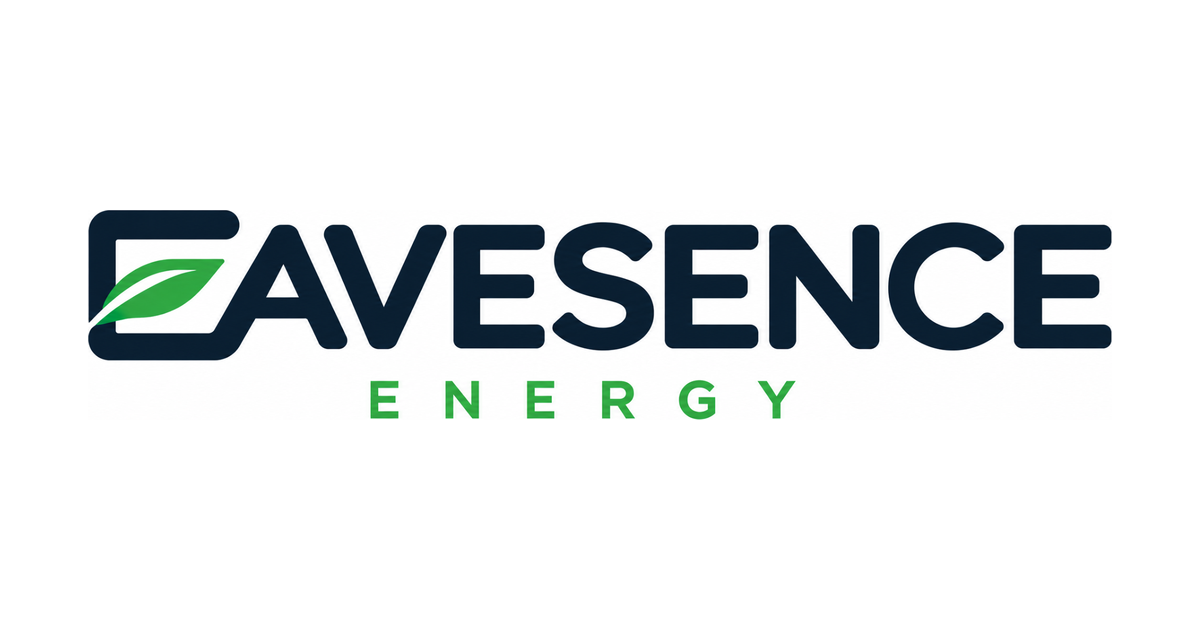
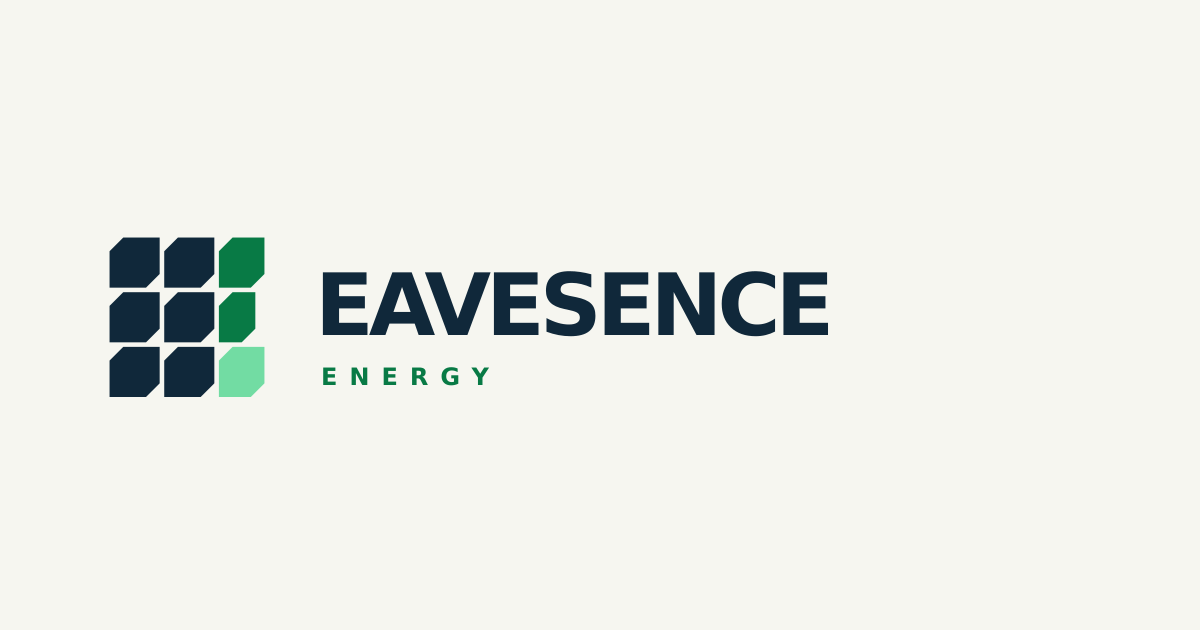
Adopt Cut Grid branding and refine UI details

diff --git a/src/components/EnergyCalculator.tsx b/src/components/EnergyCalculator.tsx
@@ -1054,7 +1054,7 @@ export default function EnergyCalculator({
 
       {/* Device */}
       <div className={homePresentation ? "mb-4" : "mb-6"}>
-        <p className="mb-3 text-sm font-semibold tracking-[-0.01em] text-[#edf3ef]">
+        <p className="mb-3 pl-3.5 text-sm font-semibold tracking-[-0.01em] text-[#edf3ef]">
           {text.device.label}
         </p>
         {detailPage ? (
@@ -1276,7 +1276,7 @@ export default function EnergyCalculator({
           isPowerDevice && (
             <>
               <div>
-                <label className="mb-2 block text-sm font-semibold text-slate-700">
+                <label className="mb-2 block pl-4 text-sm font-semibold text-slate-700">
                   {text.fields.power}
                 </label>
 
@@ -1314,7 +1314,7 @@ export default function EnergyCalculator({
               </div>
 
               <div>
-                <label className="mb-2 block text-sm font-semibold text-slate-700">
+                <label className="mb-2 block pl-4 text-sm font-semibold text-slate-700">
                   {
                     text.fields
                       .minutesPerUse
@@ -1357,7 +1357,7 @@ export default function EnergyCalculator({
         {mode === "estimate" &&
           isConsumptionDevice && (
             <div>
-              <label className="mb-2 block text-sm font-semibold text-slate-700">
+              <label className="mb-2 block pl-4 text-sm font-semibold text-slate-700">
                 {
                   text.fields
                     .consumptionPerUse
@@ -1401,7 +1401,7 @@ export default function EnergyCalculator({
 
         {mode === "exact" && (
           <div>
-            <label className="mb-2 block text-sm font-semibold text-slate-700">
+            <label className="mb-2 block pl-4 text-sm font-semibold text-slate-700">
               {
                 text.fields
                   .actualConsumptionPerUse
@@ -1446,7 +1446,7 @@ export default function EnergyCalculator({
         {/* Electricity price */}
         <div className="grid gap-3 sm:grid-cols-[minmax(12rem,1fr)_8rem]">
           <div>
-          <label className="mb-2 block text-sm font-semibold text-slate-700">
+          <label className="mb-2 block pl-4 text-sm font-semibold text-slate-700">
             {
               text.fields
                 .electricityPrice
@@ -1486,7 +1486,7 @@ export default function EnergyCalculator({
           </div>
 
           <div>
-            <label className="mb-2 block text-sm font-semibold text-slate-700">
+            <label className="mb-2 block pl-4 text-sm font-semibold text-slate-700">
               {text.fields.currency}
             </label>
 
@@ -1506,7 +1506,7 @@ export default function EnergyCalculator({
 
         {/* Uses */}
         <div>
-          <label className="mb-2 block text-sm font-semibold text-slate-700">
+          <label className="mb-2 block pl-4 text-sm font-semibold text-slate-700">
             {
               text.fields
                 .usesPerWeek
@@ -1566,7 +1566,7 @@ export default function EnergyCalculator({
           type="button"
           onClick={() => myDevicesPanelRef.current?.saveCurrentDevice()}
           disabled={!calculationIsValid}
-          className="calculator-save-action ml-auto inline-flex min-h-8 items-center justify-center gap-1 rounded-md border border-[var(--brand-green)] bg-[var(--brand-green)] px-2.5 py-1 text-[var(--brand-off-white)] shadow-[0_8px_20px_-16px_rgba(0,122,61,0.8)] transition hover:-translate-y-0.5 hover:bg-[var(--brand-green-dark)] focus-visible:outline-none focus-visible:ring-2 focus-visible:ring-[var(--brand-green-mint)] focus-visible:ring-offset-2 focus-visible:ring-offset-[#0d1819] disabled:cursor-not-allowed disabled:border-slate-600 disabled:bg-slate-700 disabled:text-slate-400 disabled:shadow-none disabled:hover:translate-y-0 active:translate-y-0"
+          className="calculator-save-action ml-auto inline-flex min-h-8 items-center justify-center gap-1 rounded-md border border-[var(--brand-green-mint)] bg-[var(--brand-green-mint)] px-2.5 py-1 text-[var(--brand-green)] shadow-[0_8px_20px_-16px_rgba(114,220,163,0.65)] transition hover:-translate-y-0.5 hover:border-[#62d797] hover:bg-[#62d797] focus-visible:outline-none focus-visible:ring-2 focus-visible:ring-[var(--brand-green-mint)] focus-visible:ring-offset-2 focus-visible:ring-offset-[#0d1819] disabled:cursor-not-allowed disabled:border-slate-600 disabled:bg-slate-700 disabled:text-slate-400 disabled:shadow-none disabled:hover:translate-y-0 active:translate-y-0"
         >
           {activeSavedDeviceId ? text.saveChanges : text.calculate}
           <span aria-hidden="true">+</span>

diff --git a/src/components/Header.tsx b/src/components/Header.tsx
@@ -325,7 +325,7 @@ export default function Header({
               onClick={handleLogoClick}
               onMouseEnter={openDesktopNavigation}
               onFocus={openDesktopNavigation}
-              className={`absolute top-1/2 z-20 flex -translate-y-1/2 items-center gap-2.5 transition-[left,transform] duration-[420ms] ease-[cubic-bezier(.2,.8,.2,1)] motion-reduce:transition-none ${
+              className={`absolute top-1/2 z-20 flex -translate-y-1/2 items-center gap-2.5 transition-[left,transform] duration-[520ms] ease-[cubic-bezier(.2,.8,.2,1)] motion-reduce:transition-none ${
                 desktopNavigationOpen
                   ? "left-0 translate-x-0"
                   : "left-1/2 -translate-x-1/2"
@@ -334,7 +334,7 @@ export default function Header({
             >
               <BrandMark className="h-8 w-8 shrink-0" />
               <span
-                className={`overflow-hidden whitespace-nowrap text-[1.25rem] font-extrabold leading-none tracking-[-0.065em] text-[#10283a] transition-[max-width,opacity,transform,filter] duration-[420ms] ease-[cubic-bezier(.2,.8,.2,1)] motion-reduce:transition-none ${
+                className={`overflow-hidden whitespace-nowrap text-[1.25rem] font-extrabold leading-none tracking-[-0.065em] text-[#10283a] transition-[max-width,opacity,transform,filter] duration-[520ms] ease-[cubic-bezier(.2,.8,.2,1)] motion-reduce:transition-none ${
                   desktopNavigationOpen
                     ? "max-w-0 -translate-x-3 scale-x-75 opacity-0 blur-[5px]"
                     : "max-w-[190px] translate-x-0 scale-x-100 opacity-100 blur-0"
@@ -357,7 +357,7 @@ export default function Header({
                 setPreviewNavigation(null);
               }}
               aria-label={text.openNavigation}
-              className={`absolute inset-y-0 left-10 right-10 flex items-center justify-center gap-5 transition-[opacity,transform,filter,visibility] duration-[280ms] ease-out motion-reduce:transition-none ${
+              className={`absolute inset-y-0 left-10 right-10 flex items-center justify-center gap-5 transition-[opacity,transform,filter,visibility] duration-[340ms] ease-out motion-reduce:transition-none ${
                 desktopNavigationOpen
                   ? "visible translate-x-0 opacity-100 blur-0 delay-100"
                   : "invisible pointer-events-none translate-x-4 opacity-0 blur-[3px] delay-0"
@@ -381,7 +381,7 @@ export default function Header({
               <span
                 ref={activeIndicatorRef}
                 aria-hidden="true"
-                className="pointer-events-none absolute bottom-0 left-0 h-[2px] rounded-full bg-[var(--brand-green)] opacity-0 transition-[width,transform,opacity] duration-[220ms] ease-[cubic-bezier(.2,.8,.2,1)] motion-reduce:transition-none"
+                className="pointer-events-none absolute bottom-0 left-0 h-[2px] rounded-full bg-[var(--brand-green-mint)] opacity-0 transition-[width,transform,opacity] duration-[220ms] ease-[cubic-bezier(.2,.8,.2,1)] motion-reduce:transition-none"
               />
             </nav>
           </div>

diff --git a/src/components/MyDevicesPanel.tsx b/src/components/MyDevicesPanel.tsx
@@ -514,7 +514,7 @@ function MyDevicesPanel(
                 ))}
               </div>
 
-              <div className="mt-3 flex flex-wrap items-center gap-x-3 gap-y-1.5">
+              <div className="mt-3 flex flex-wrap items-start gap-x-3 gap-y-2">
                 <button
                   type="button"
                   onClick={exportDevices}
@@ -556,9 +556,20 @@ function MyDevicesPanel(
                 <button
                   type="button"
                   onClick={removeAllDevices}
-                  className="saved-device-utility-action text-slate-400 transition hover:text-red-700"
+                  className="group relative pb-1 saved-device-utility-action text-slate-400 transition hover:text-red-700"
                 >
                   {text.removeAll}
+                  <svg
+                    viewBox="0 0 12 12"
+                    fill="none"
+                    className="pointer-events-none absolute left-1/2 top-full h-2.5 w-2.5 -translate-x-1/2 -translate-y-1 opacity-0 transition duration-150 group-hover:translate-y-0 group-hover:opacity-100"
+                    stroke="currentColor"
+                    strokeWidth="1.7"
+                    strokeLinecap="round"
+                    aria-hidden="true"
+                  >
+                    <path d="m3 3 6 6M9 3 3 9" />
+                  </svg>
                 </button>
               </div>
             </div>

diff --git a/src/components/BrandLogo.tsx b/src/components/BrandLogo.tsx
@@ -17,14 +17,15 @@ export function BrandMark({
       fill="none"
       aria-hidden="true"
     >
-      <rect x="1" y="1" width="10" height="10" rx="2.4" fill="#10283a" />
-      <rect x="13" y="1" width="10" height="10" rx="2.4" fill="#10283a" />
-      <rect x="25" y="1" width="10" height="10" rx="2.4" fill="#087a45" />
-      <rect x="1" y="13" width="10" height="10" rx="2.4" fill="#10283a" />
-      <rect x="13" y="13" width="10" height="10" rx="2.4" fill="#10283a" />
-      <rect x="1" y="25" width="10" height="10" rx="2.4" fill="#10283a" />
-      <rect x="13" y="25" width="10" height="10" rx="2.4" fill="#10283a" />
-      <rect x="25" y="25" width="10" height="10" rx="2.4" fill="#10283a" />
+      <path d="M1 4 4 1h8v8l-3 3H1Z" fill="#10283a" />
+      <path d="m13 4 3-3h8v8l-3 3h-8Z" fill="#10283a" />
+      <path d="m25 4 3-3h7v8l-3 3h-7Z" fill="#087a45" />
+      <path d="m1 16 3-3h8v8l-3 3H1Z" fill="#10283a" />
+      <path d="m13 16 3-3h8v8l-3 3h-8Z" fill="#10283a" />
+      <path d="m25 16 3-3h5v8l-3 3h-5Z" fill="#087a45" />
+      <path d="m1 28 3-3h8v8l-3 3H1Z" fill="#10283a" />
+      <path d="m13 28 3-3h8v8l-3 3h-8Z" fill="#10283a" />
+      <path d="m25 28 3-3h7v8l-3 3h-7Z" fill="#72dca3" />
     </svg>
   );
 }
